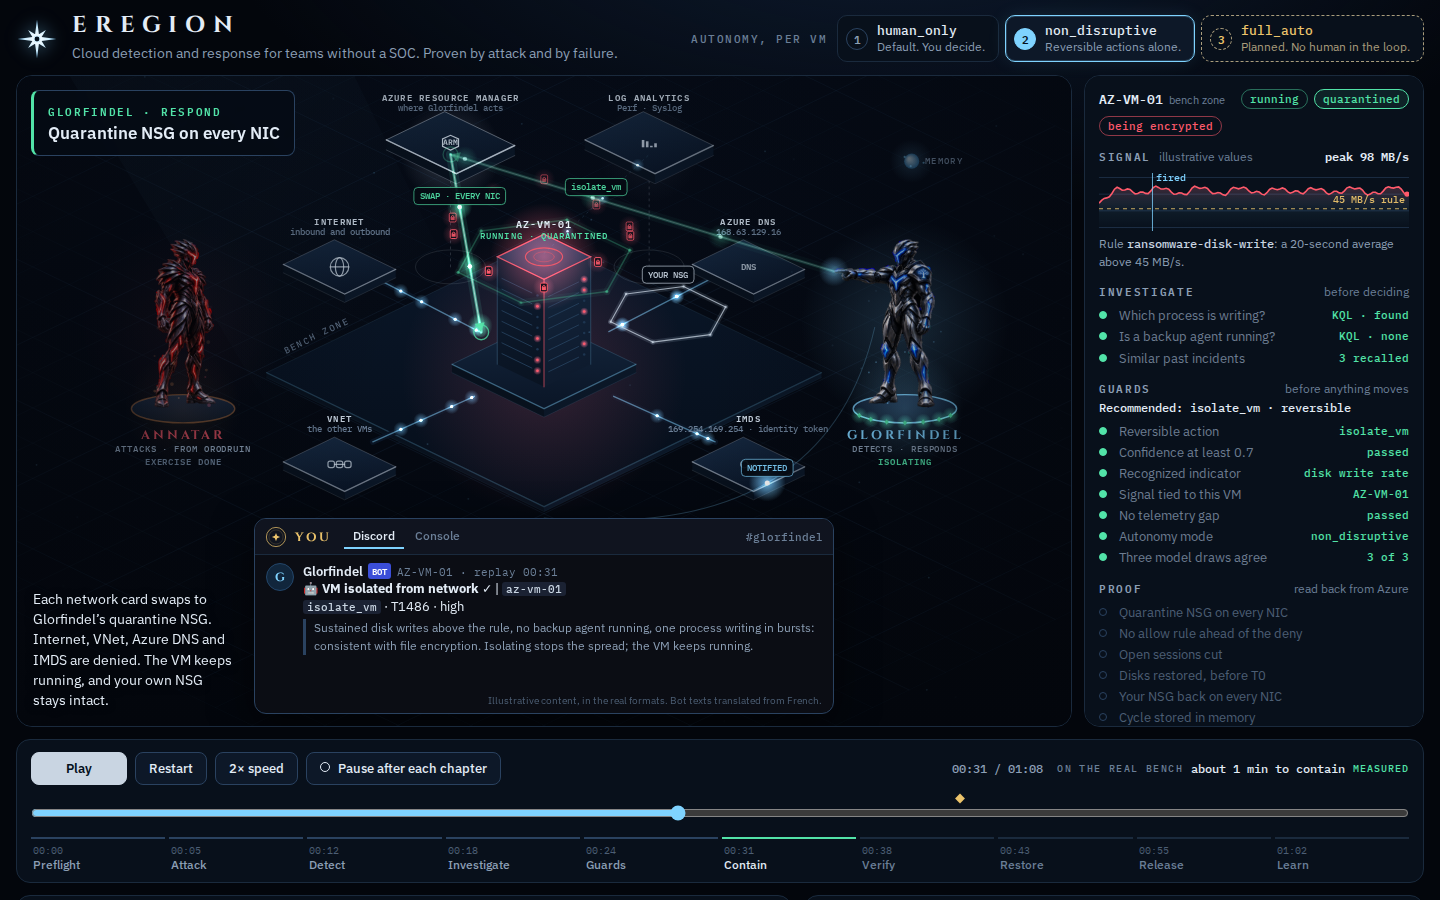
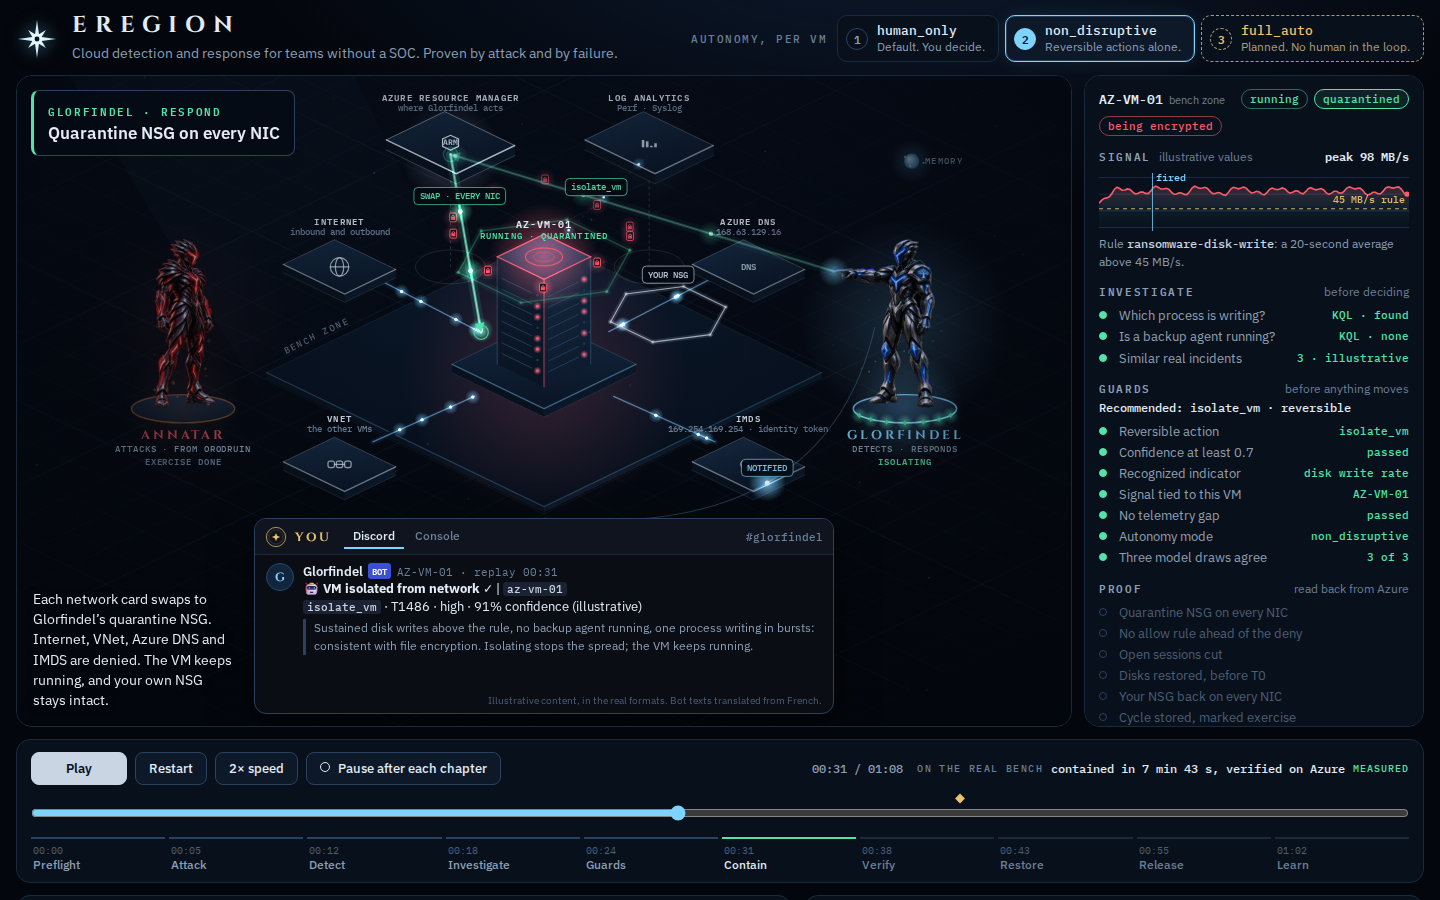
docs(replay): l'aperçu rendu à nouveau aux chiffres du 12/11 ; la capture de la console reste celle du 27/10 (RAN1b)
L'aperçu docs/replay/preview.png (README, site) montrait « about 1 min
to contain, measured » : il est rendu depuis la page elle-même, même
cadre (?t=31.9&mode=non_disruptive, 1440 × 900), par le Chromium de
Playwright, ses bibliothèques nss et nspr extraites hors du poste, la
police emoji de Windows pour la carte Discord.

La capture de la console du README reste celle du banc du 27/10, sa
légende datée et juste : décision de Jonathan du 14/11, dite dans
changes/RAN1b.md.

diff --git a/changes/RAN1b.md b/changes/RAN1b.md
@@ -1,5 +1,5 @@
 ### Fixed
 - **A card of the control plane or of an identity says its target in English, like the console that shows it** (RAN1b, #820, after RAN1, #665; `docs/glorfindel.md`, « La carte se range sur ce qu'elle vise »). The bench showed it on 9 Nov: the console printed « attribution de rôle, portée … » under an English card. What `glorfindel/card_target.py` writes on a card's target, its name, `via` and `limit` (« role assignment, scope rg-… », « rule …, call from vm-… », « deleted, or outside the watch's rights », « the control plane »…), and the RulePoller's own limit when the target cannot be read, are now English. The Discord card, in French, shows them as they are; a card filed before keeps its French words.
   - Tests: `tests/unit/test_card_target.py` (every branch of the target said in English, no French string left in the module), `tests/unit/test_rule_routing.py`. The anchors of the AL1c mutants follow the English strings (`scripts/mutants/AL1c.py`); mutants M5311–M5316 (`scripts/mutants/RAN1b.py`).
-- **The replay on the site shows the ransomware times of the bench run of 12 Nov 2026** (RAN1b, #820; `docs/replay/index.html`). It still marked as measured those of 9 June, from before Imladris, Orodruin and Dagorlad: « about a minute to contain », « 21 min 29 s to restored service », a detection in « 55–71 s ». It now says those the README and `docs/proofs.json` give, from `docs/banc-t1486.md`: detected 141.6 s after T0, quarantined 19.5 s later, contained in 7 min 43 s with the isolation verified on Azure, 27 min 55 s to restored service. The preview image (`docs/replay/preview.png`) still shows the old figure, to render again.
+- **The replay on the site shows the ransomware times of the bench run of 12 Nov 2026** (RAN1b, #820; `docs/replay/index.html`). It still marked as measured those of 9 June, from before Imladris, Orodruin and Dagorlad: « about a minute to contain », « 21 min 29 s to restored service », a detection in « 55–71 s ». It now says those the README and `docs/proofs.json` give, from `docs/banc-t1486.md`: detected 141.6 s after T0, quarantined 19.5 s later, contained in 7 min 43 s with the isolation verified on Azure, 27 min 55 s to restored service. Its preview image (`docs/replay/preview.png`, in the README and on the site), which showed « about 1 min to contain, measured », is rendered again from the page itself, on the same frame (`?t=31.9&mode=non_disruptive`, 1440 × 900). The README's capture of the console (`docs/images/console-overview.png`) stays that of the bench of 27 Oct 2026, its caption dated and right: a capture of the replay of 9 Nov, which RAN1 had in view, would show the isolation's check as failed, since corrected, against the figures of 12 Nov (Jonathan's decision, 14 Nov).
   - Tests: `tests/unit/test_adoption.py` (the replay's measured times are the proofs'); mutants M5317–M5319 (`scripts/mutants/RAN1b.py`).
